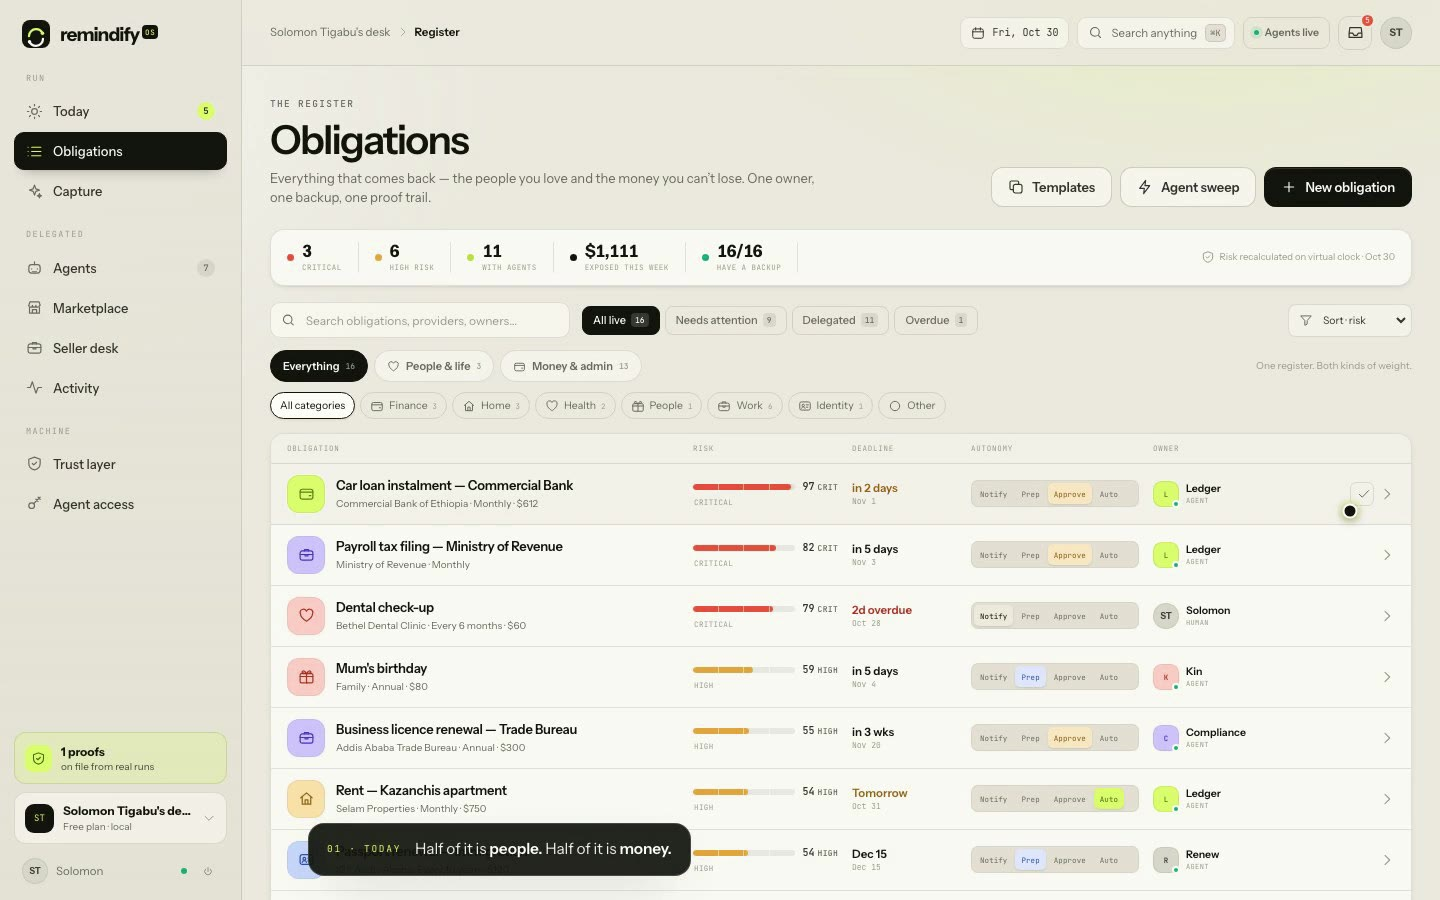
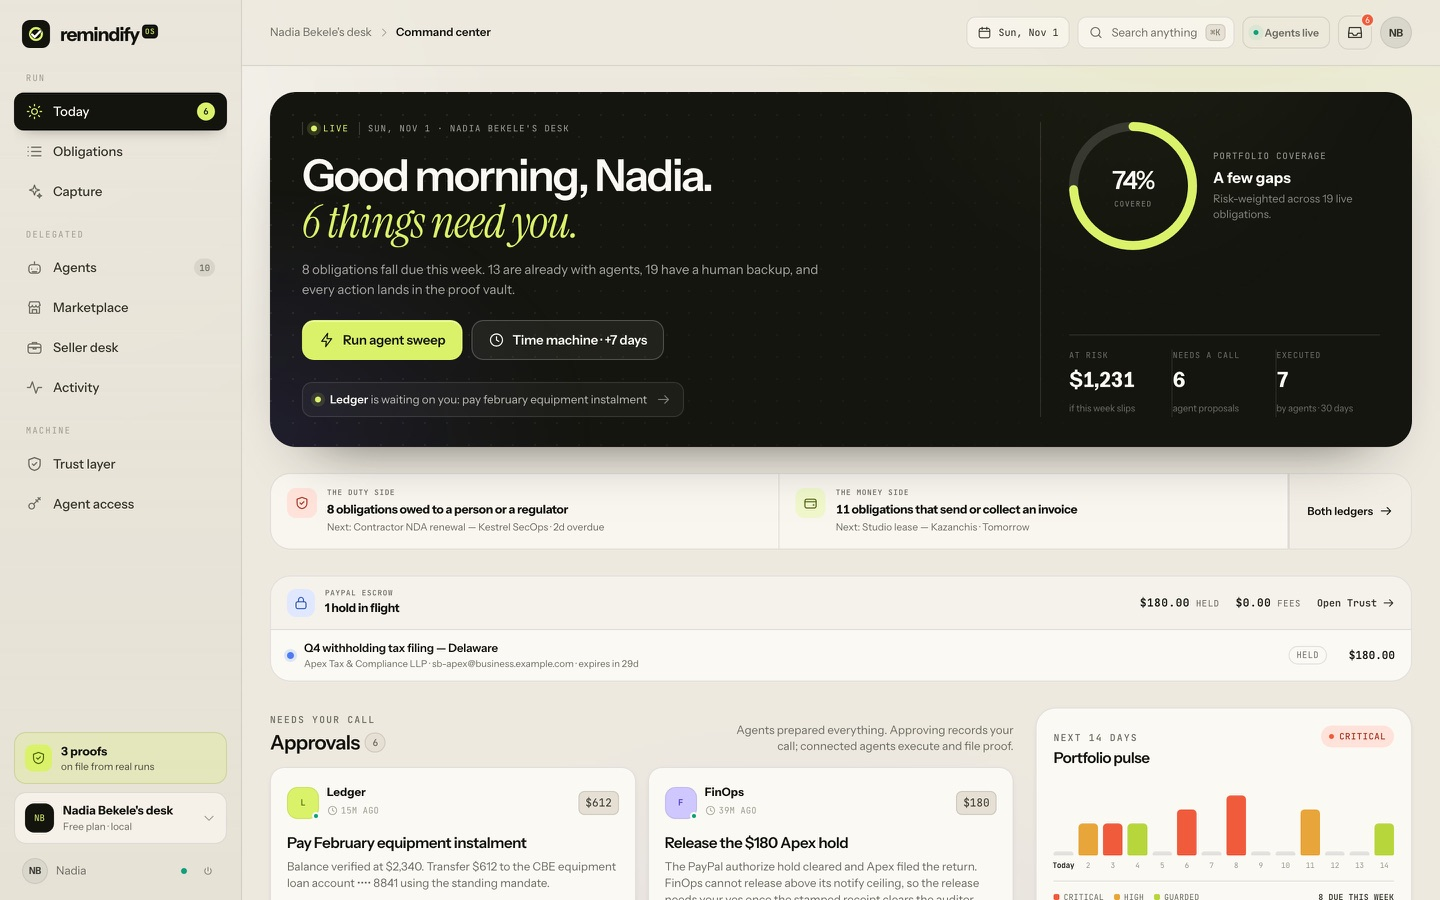
Replace the pre-scrub demo poster and OG card with the B2B build

diff --git a/SUBMISSION.md b/SUBMISSION.md
@@ -123,7 +123,7 @@ Expected without any PayPal credentials: steps 2–6 and 8 work; step 7 explains
 - [x] Pushed `feat/paypal-agentic-commerce`; `paypal-hackathon-2026` tags the submission commit.
 - [ ] Set repo topics/description/homepage on GitHub (no `gh` CLI on this machine — 30 seconds in the repo settings; suggested topics: `paypal`, `paypal-apis`, `ai-agents`, `hackathon`, `react`, `nodejs`).
 - [ ] Deploy the branch to the `remindify-paypal` Vercel project and confirm the seeded sign-in works (runbook in §7).
-- [ ] Record the video against the live or local sandbox build, under 3:00.
+- [ ] Record the video against the live or local sandbox build, under 3:00. **`public/demo/remindify-demo.mp4` is still the pre-scrub recording (car loan, dental check-up, "people and money") — replace it with the new 3:00 capture before deploying; the poster and OG card are already rebuilt from the B2B seed.**
 - [ ] Paste fields into Devpost and submit before **Nov 12, 12:00pm PST**.
 
 ---
